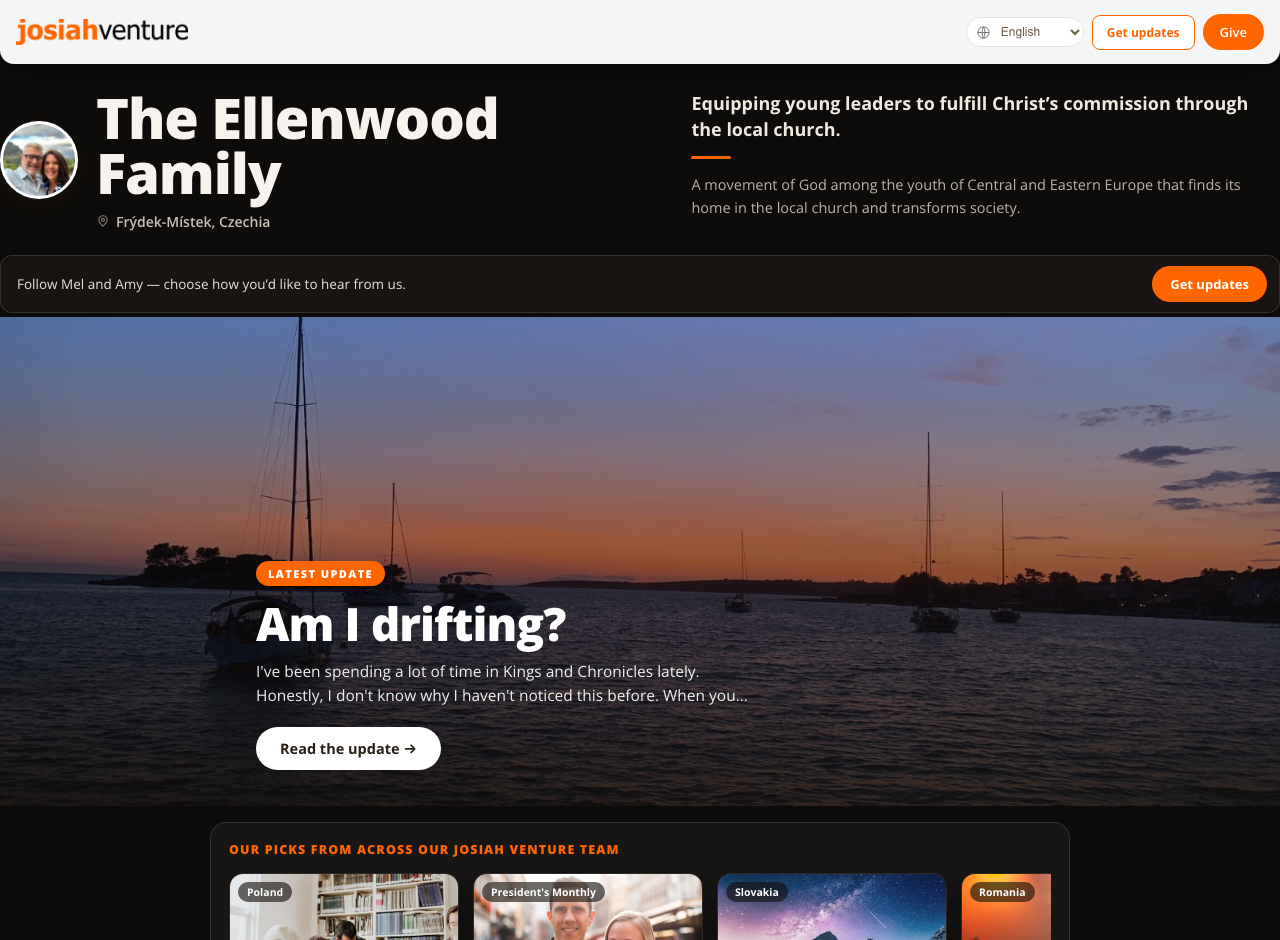
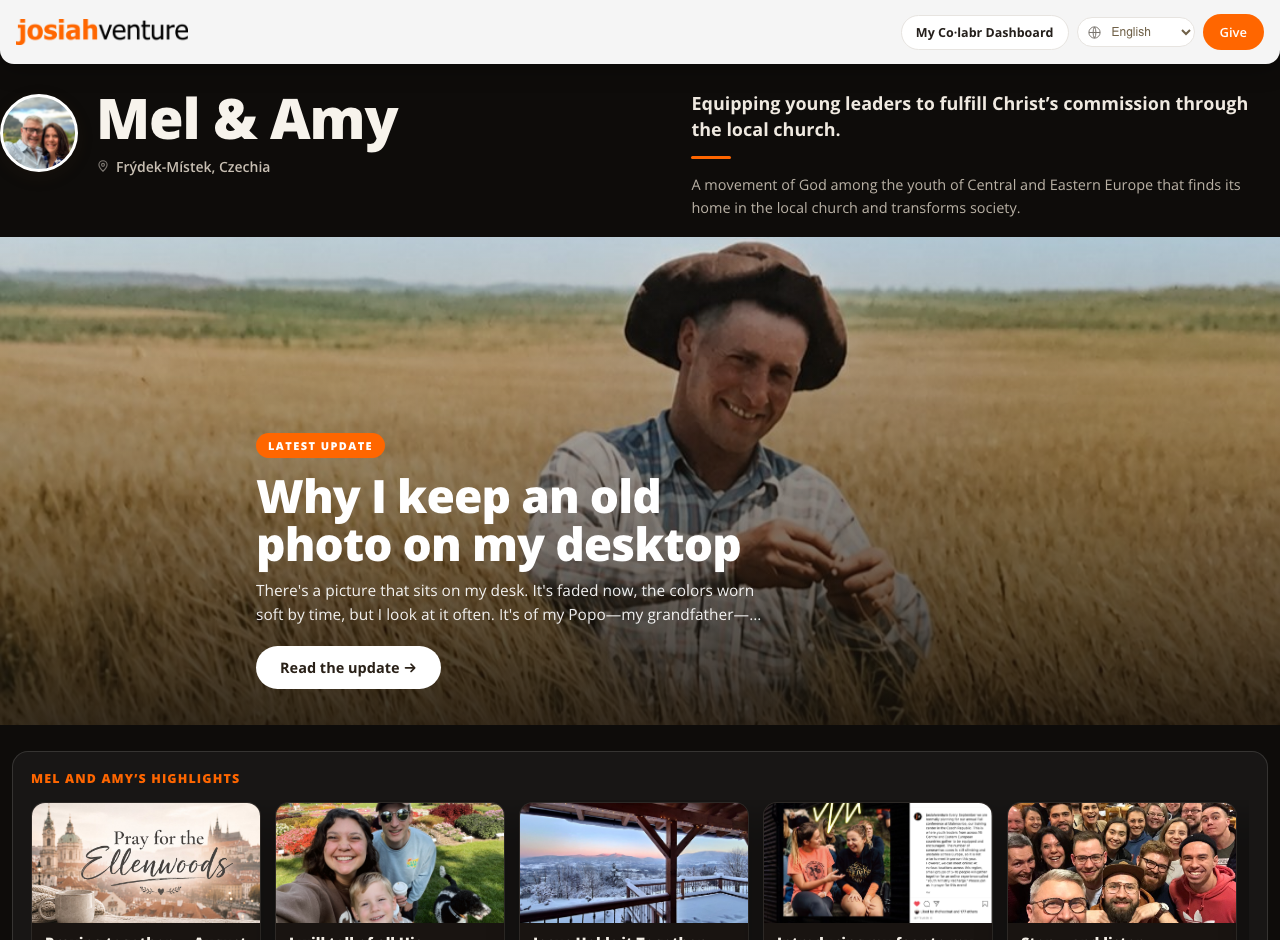
Ship the two wall photographs, and let the archive be a surprise
The blue question marks were mine. tour.html pointed at the two screenshots but
the files were only ever copied into photos/, never committed, so the deploy had
the markup and none of the pictures. Both are in now, along with a fresh
home-wall-shot of Mel's wall led by the update he wanted there.

The caption under them ended on what nobody is handed. It ends on what everybody
gets instead: her own team in her own country meets her organisation, the people
who support her from abroad meet Josiah Venture, and everybody gets the whole
story, clearly, in the language of their heart.

And the archive promise comes off the public pages. Telling somebody how well we
will treat them when they leave, on the page where they are deciding whether to
start, plants the leaving. The archive still happens exactly as built, they just
meet it as a kindness at the moment it matters rather than as a clause.

diff --git a/tour.html b/tour.html
@@ -165,7 +165,7 @@
         <div class="shot"><img src="photos/wall-jv-en.png" alt="The same wall in English, wearing the Josiah Venture mark with the Czechia co-brand" width="1280" height="720" loading="lazy"></div>
       </div>
     </div>
-    <p class="caption">One page. One update. She wrote it once and never thought about any of this. Her own team meets her organisation; the people who support her from abroad meet Josiah Venture. Nobody is handed a worse version of the story.</p>
+    <p class="caption">One page. One update. She wrote it once and never had to think about any of this. Her own team in her own country meets her organisation. The people who support her from abroad meet Josiah Venture. Everybody gets the whole story, clearly, in the language of their heart.</p>
   </div>
 
   <div class="stop">

diff --git a/pricing.html b/pricing.html
@@ -65,11 +65,6 @@
     <p><b>Serving with Josiah Venture?</b> Your organization covers this. You'll never see a bill or a trial countdown.</p>
   </div>
 
-  <div class="card">
-    <h2>If you decide it isn't for you</h2>
-    <p>Your writing is yours, and leaving shouldn't cost you it. Before anything is ever paused we email you <b>your whole archive as a single file</b>, holding every update, photo, prayer and sign-off in the order you wrote them.</p>
-    <p>It opens in any browser, works offline, and needs no account and no Co·labr. Keep it forever, whatever you decide.</p>
-  </div>
 
   <div class="card">
     <h2>Kind to organizations</h2>

diff --git a/home.html b/home.html
@@ -95,7 +95,6 @@
         <img src="photos/home-wall-shot.png" alt="A live Co·labr update wall, a featured story up top with picks from across the team below" width="1280" height="940">
       </div>
       <div class="tag">A real wall, live right now</div>
-      <p class="leavenote">If you ever decide it isn’t for you, we email you your whole archive first: every update, photo and prayer in one file that opens offline, forever, with no account. Your writing stays yours.</p>
     </div>
   </div>
 </div>
